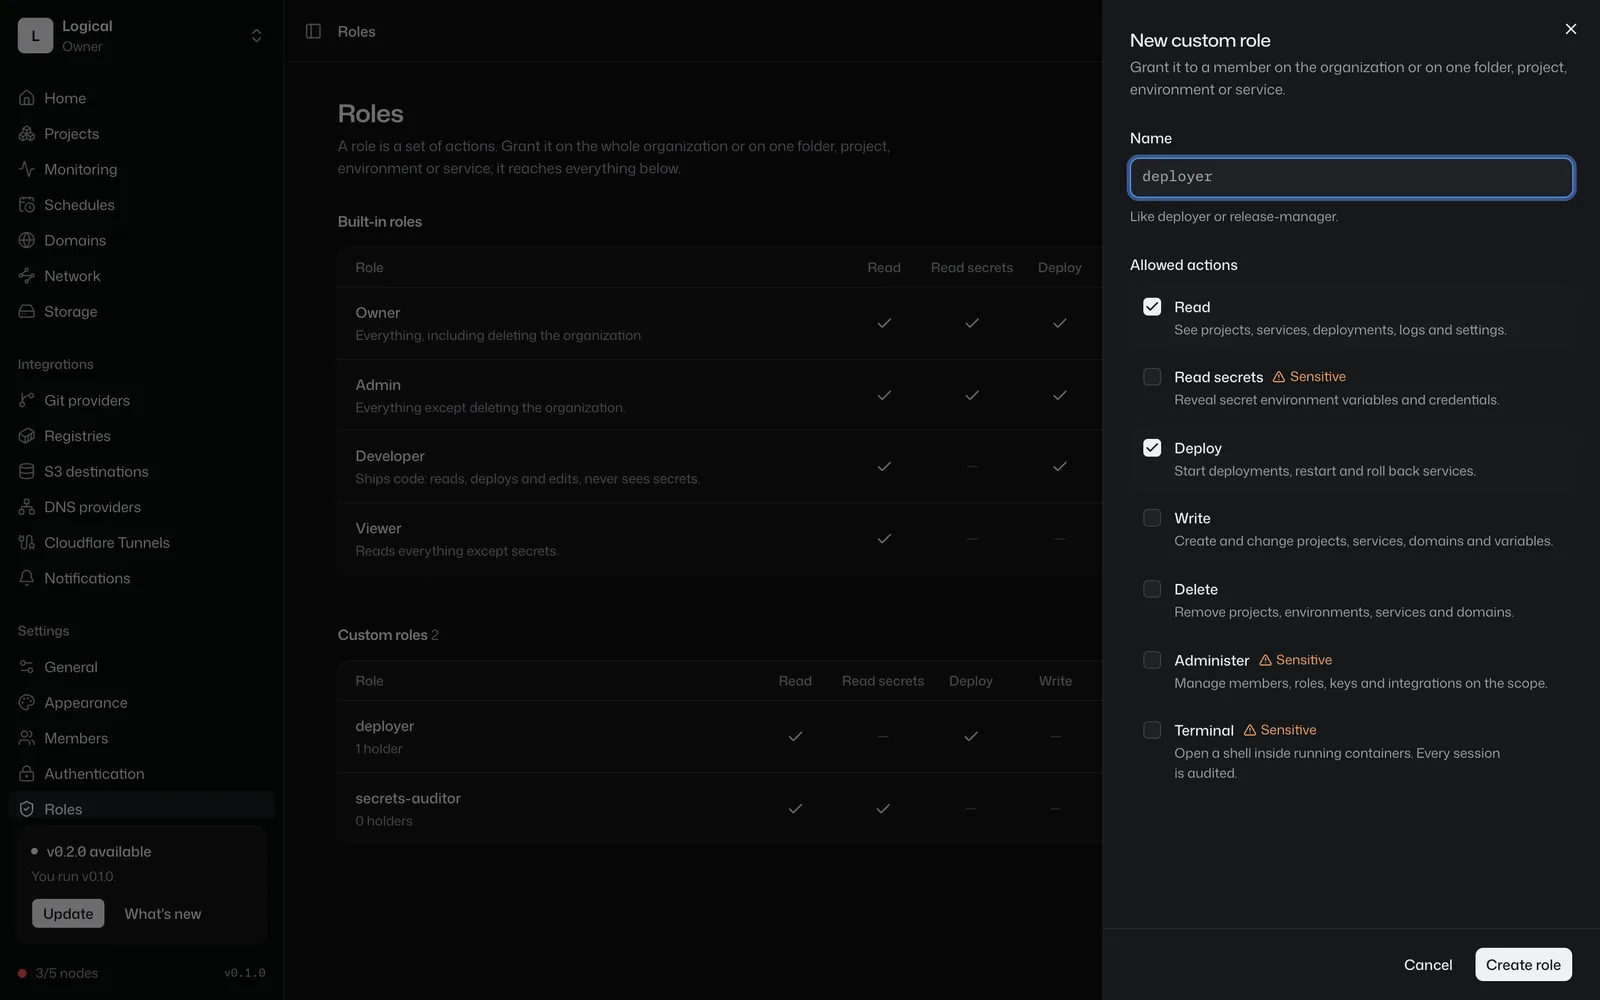
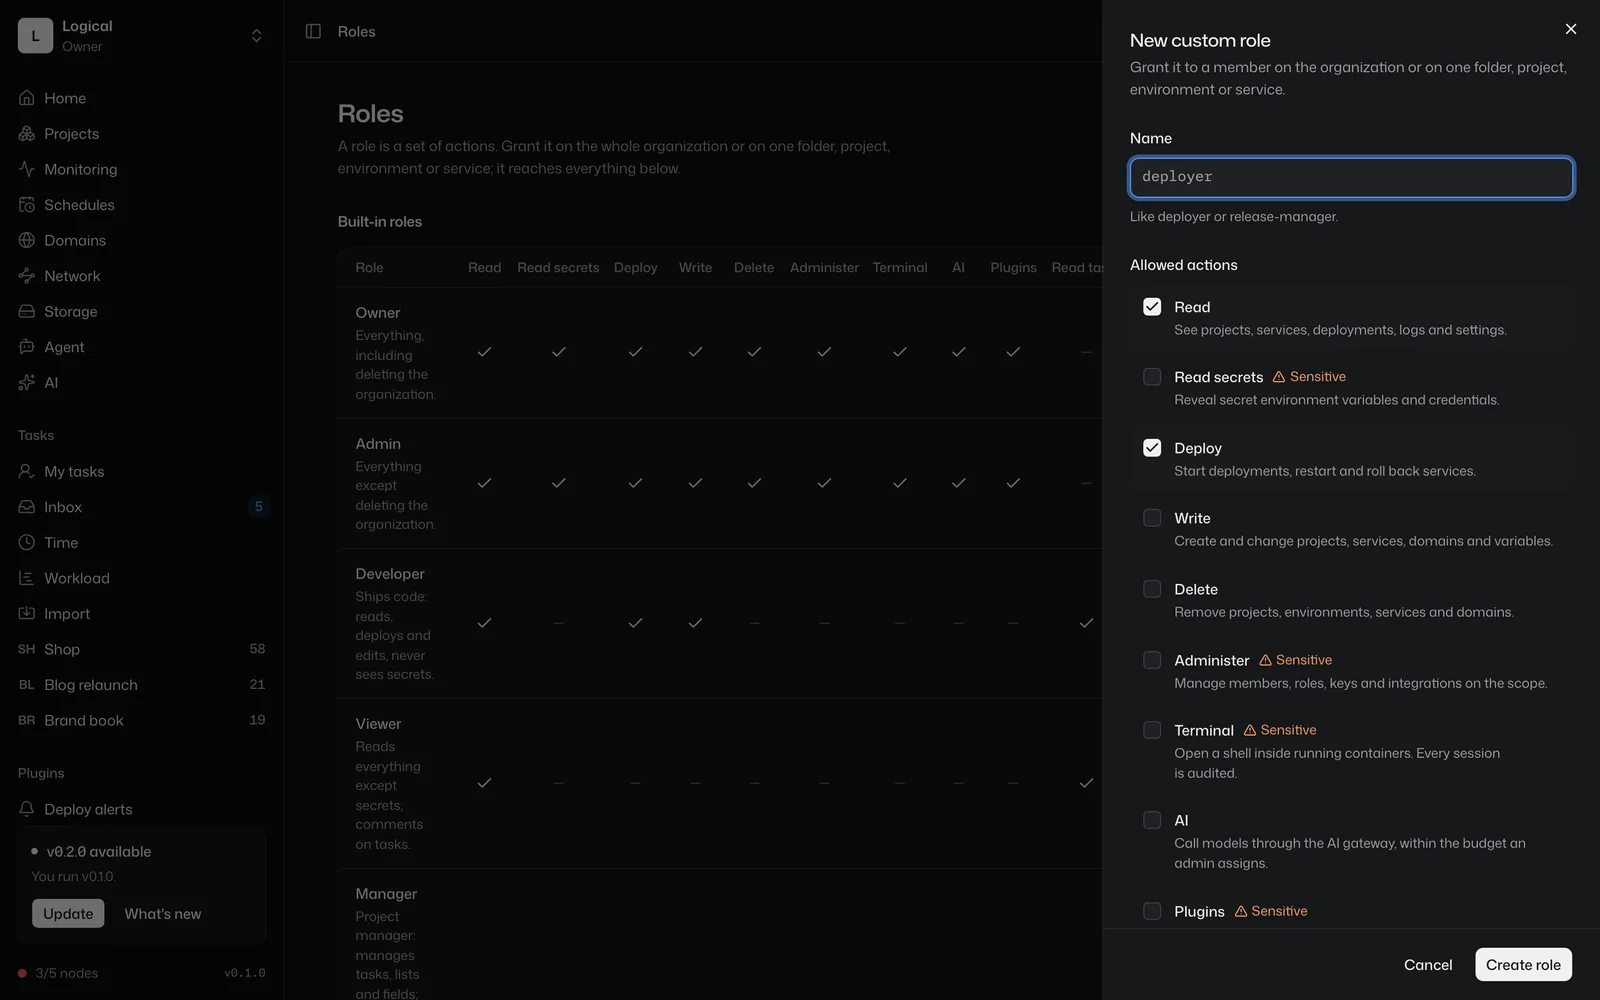
docs(tasks): generate Work screenshots and match docs to the UI
Screenshots for projects, overview, views, task sheet, inbox, my tasks and time from the mock
(Work-only shell where relevant); settings paths, guest, repeat, time and role labels as the UI
shows them. AI draft descriptions append below an existing description.

diff --git a/docs-site/scripts/screenshots.ts b/docs-site/scripts/screenshots.ts
@@ -17,12 +17,15 @@ const P = "/projects/prj_storefront";
 const SVC = `${P}/services/svc_storefront_production_web`;
 const PG = `${P}/services/svc_storefront_production_postgres`;
 const REDIS = `${P}/services/svc_storefront_production_redis`;
-// shortcut: ids assumed for the Work mock fixture (project "Shop"); align them when the fixture lands.
+// Work mock fixture: project "Shop" (prj_shop) with views wvw_shop_<kind>; "Blog relaunch" is degraded.
 const W = "/work/projects/prj_shop";
-const AUTOSCALE =`${P}/services/svc_storefront_production_api/settings?scaling=setup&step=`;
+const AUTOSCALE = `${P}/services/svc_storefront_production_api/settings?scaling=setup&step=`;
 
-/** A path, or a path plus the buttons/links to click (by accessible name, in order) before the shot. */
-type Shot = string | { path: string; click: string[] };
+/**
+ * A path, or a path plus the buttons/links to click (by accessible name, in order) before the shot.
+ * `role: "manager"` signs the mock in as a project manager, which opens the Work-only shell.
+ */
+type Shot = string | { path: string; click?: string[]; role?: "manager" };
 
 /** name → shot. Names are what MDX pages reference: /screens/<name>.webp */
 export const shots: Record<string, Shot> = {
@@ -164,16 +167,16 @@ export const shots: Record<string, Shot> = {
 		click: ["Check for updates"],
 	},
 	"plugin-page": "/plugin/plg_deployalerts/failures",
-	"work-projects": "/work/projects",
-	"work-project": W,
+	"work-projects": { path: "/work/projects", role: "manager" },
+	"work-project": "/work/projects/prj_blog",
 	"work-table": `${W}/v/wvw_shop_list`,
 	"work-board": `${W}/v/wvw_shop_board`,
 	"work-timeline": `${W}/v/wvw_shop_timeline`,
 	"work-calendar": `${W}/v/wvw_shop_calendar`,
 	"work-task": `${W}/v/wvw_shop_board?task=tsk_shop_42`,
-	"work-my-tasks": "/work",
+	"work-my-tasks": { path: "/work", role: "manager" },
 	"work-inbox": "/work/inbox",
-	"work-time": "/work/time",
+	"work-time": "/work/time?tab=report",
 };
 
 // The mock has no plugin container behind /plugins/<id>/ui/*: serve a stand-in page that speaks
@@ -215,9 +218,18 @@ const page = await ctx.newPage();
 const failed: string[] = [];
 for (const [name, shot] of Object.entries(shots)) {
 	if (only && !name.includes(only)) continue;
-	const { path, click } =
-		typeof shot === "string" ? { path: shot, click: [] } : shot;
+	const {
+		path,
+		click = [],
+		role,
+	} = typeof shot === "string" ? { path: shot } : shot;
 	try {
+		// The mock reads the role on each /me; set it on this origin before the page loads.
+		await page.goto(`${base}/sign-in`);
+		await page.evaluate((r) => {
+			if (r) localStorage.setItem("logistack.mock.role", r);
+			else localStorage.removeItem("logistack.mock.role");
+		}, role ?? null);
 		await page.goto(base + path, { waitUntil: "networkidle" });
 		// The mock API answers after a short simulated latency; let skeletons settle.
 		await page.waitForTimeout(1200);

diff --git a/apps/web/src/components/work/task-sheet/task-sheet.tsx b/apps/web/src/components/work/task-sheet/task-sheet.tsx
@@ -530,14 +530,22 @@ function TaskSheet({
 							<TaskAiActions
 								taskId={task.id}
 								onDraftComment={setCommentDraft}
-								onDescription={(doc) =>
-									// Lands in the editor like typing, so the usual autosave keeps it.
-									descEditor.current
-										?.chain()
-										.setContent(doc, { emitUpdate: true })
-										.focus("end")
-										.run()
-								}
+								onDescription={(doc) => {
+									const ed = descEditor.current;
+									if (!ed) return;
+									// Lands in the editor like typing, so the usual autosave keeps it. An existing
+									// description stays: the draft goes below it, for the person to merge.
+									if (ed.isEmpty)
+										ed.chain()
+											.setContent(doc, { emitUpdate: true })
+											.focus("end")
+											.run();
+									else
+										ed.chain()
+											.focus("end")
+											.insertContent(doc.content ?? [])
+											.run();
+								}}
 								onCreateSubtasks={async (items) => {
 									for (const s of items)
 										await create.mutateAsync({
